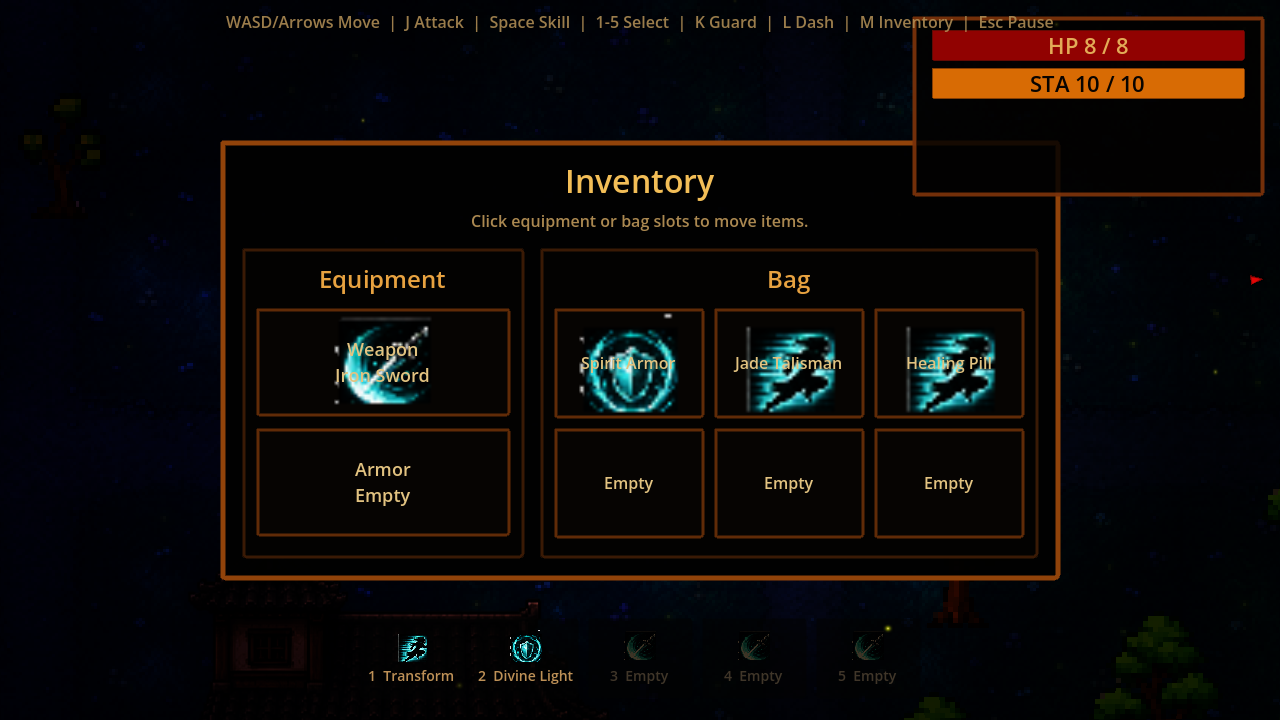
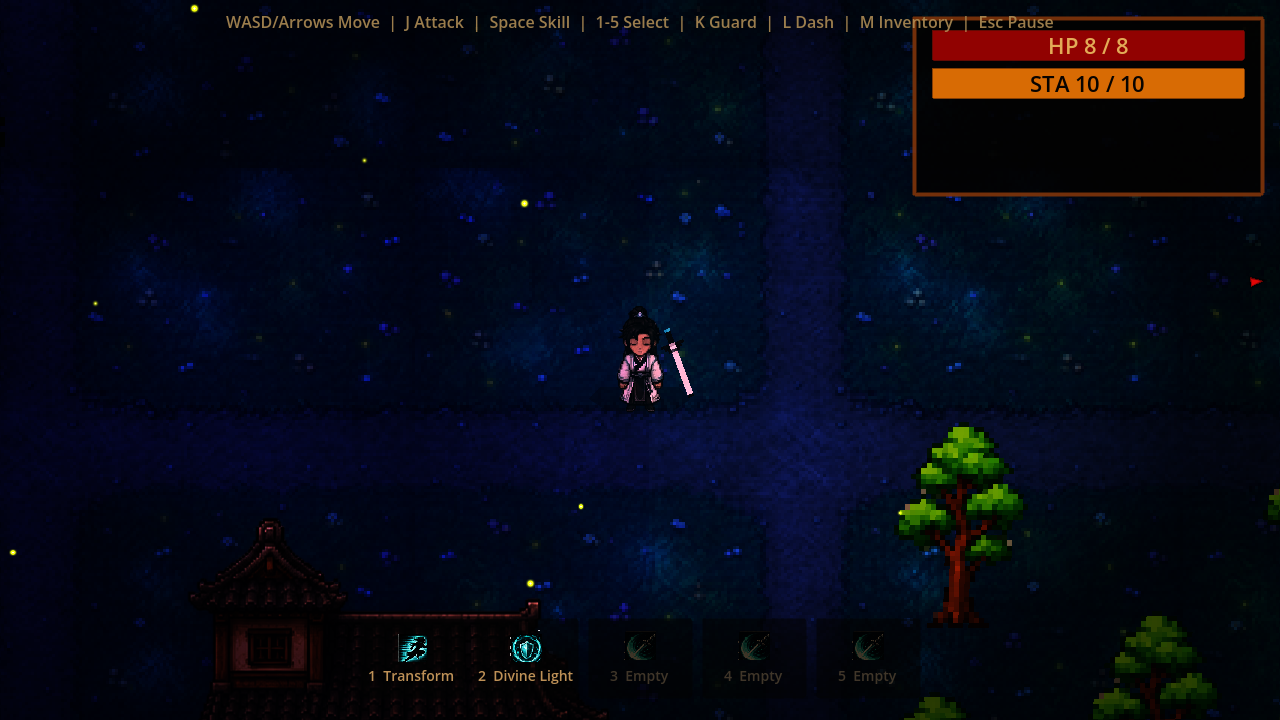
Showcase day night switching

diff --git a/README.md b/README.md
@@ -2,35 +2,40 @@
 
 **A tiny moonlit xianxia action RPG prototype made in Godot 4.**
 
-Wander through a haunted village under cold blue light, draw a blade against wandering spirits, dash past fire-lit beasts, and test the first pieces of a survival-action combat loop inspired by wuxia and xianxia fantasy.
+Wander through a village that shifts between bright grassland and cold moonlight, draw a blade against wandering spirits, dash past fire-lit beasts, and test the first pieces of a survival-action combat loop inspired by wuxia and xianxia fantasy.
 
-![Moonlit Jianghu world overview](docs/showcase/images/01-world-overview.png)
+![Moonlit Jianghu fire lion encounter](docs/showcase/images/02-day-fire-lion-encounter.png)
 
 ## Why This Exists
 
-Moonlit Jianghu is an unfinished but playable snapshot: a preserved prototype of a top-down pixel-art action RPG with night ambience, melee combat, hostile creatures, inventory UI, and a small handcrafted village map.
+Moonlit Jianghu is an unfinished but playable snapshot: a preserved prototype of a top-down pixel-art action RPG with day-night switching, melee combat, hostile creatures, inventory UI, and a small handcrafted village map.
 
 It is not a polished commercial release. It is a mood piece, a combat sketch, and a visual experiment that reached the point where it deserved to be shown.
 
 ## Highlights
 
-- **Moonlit xianxia village** with tiled night ground, lantern-lit buildings, trees, rocks, breakables, and drifting magical particles.
+- **Day-night village mood** that can be switched in-game with `P`, moving between bright green grassland and a colder moonlit atmosphere.
+- **Xianxia village scenery** with tiled ground, lantern-lit buildings, trees, rocks, breakables, and drifting magical particles.
 - **Snappy top-down combat** with movement, dash, melee attacks, guard timing, stamina pressure, hit flashes, knockback, and impact feedback.
 - **Enemy encounters** featuring skeletal attackers, zombies, fast enemies, and a blazing fire-lion variant.
 - **Skill bar and inventory overlay** with equipment slots, bag slots, and simple prototype RPG affordances.
 - **AI-assisted pixel-art pipeline** for cleaning, extracting, and aligning generated sprite sheets into Godot-ready transparent assets.
 
-![Fire lion encounter](docs/showcase/images/02-fire-lion-encounter.png)
+![Night fire lion encounter](docs/showcase/images/05-night-fire-lion-encounter.png)
 
 ## Screenshots
 
-| Village | Combat |
+| Day Village | Day Combat |
 | --- | --- |
-| ![Night village](docs/showcase/images/04-night-village.png) | ![Fire lion encounter](docs/showcase/images/02-fire-lion-encounter.png) |
+| ![Day village](docs/showcase/images/01-day-village.png) | ![Day fire lion encounter](docs/showcase/images/02-day-fire-lion-encounter.png) |
 
-| Inventory | Overview |
+| Night Village | Night Combat |
 | --- | --- |
-| ![Inventory overlay](docs/showcase/images/03-inventory-overlay.png) | ![World overview](docs/showcase/images/01-world-overview.png) |
+| ![Night village](docs/showcase/images/04-night-village.png) | ![Night fire lion encounter](docs/showcase/images/05-night-fire-lion-encounter.png) |
+
+| Inventory |
+| --- |
+| ![Inventory overlay](docs/showcase/images/03-inventory-overlay.png) |
 
 ## Play Notes
 
@@ -50,7 +55,7 @@ Unsigned builds may trigger operating-system security prompts.
 - Use selected skill: `Space`
 - Select skills: `1`-`5`
 - Inventory: `M`
-- Toggle night ambience: `P`
+- Toggle day/night: `P`
 - Reset scene: `R`
 
 ## Showcase Docs

diff --git a/docs/showcase/SHOWCASE_EN.md b/docs/showcase/SHOWCASE_EN.md
@@ -2,9 +2,9 @@
 
 An unfinished Godot 4 top-down action RPG prototype with a retro xianxia mood.
 
-This project is not a finished game. It is a playable snapshot of an experiment: movement, melee combat, enemy behavior, a small village map, night ambience, simple inventory UI, and a collection of AI-assisted pixel-art asset experiments.
+This project is not a finished game. It is a playable snapshot of an experiment: movement, melee combat, enemy behavior, a small village map, day-night switching, simple inventory UI, and a collection of AI-assisted pixel-art asset experiments.
 
-![World overview](images/01-world-overview.png)
+![Day fire lion encounter](images/02-day-fire-lion-encounter.png)
 
 ## Download Builds
 
@@ -22,10 +22,10 @@ The macOS build is unsigned, so macOS may ask players to right-click and choose 
 - Top-down player movement with dash, melee attacks, blocking, stamina, and combat feedback.
 - Enemy encounters including skeleton-style enemies, fast enemies, zombies, and a fire-lion variant.
 - A small curated village map with houses, trees, breakable objects, landmarks, and boundary walls.
-- Night ambience with darker ground art, lights, firefly-like particles, and mood effects.
+- Switchable day and night ambience with bright grassland, darker ground art, lights, firefly-like particles, and mood effects.
 - A lightweight inventory overlay with equipment and bag slots.
 
-![Fire lion encounter](images/02-fire-lion-encounter.png)
+![Day village](images/01-day-village.png)
 
 ## Controls
 
@@ -36,7 +36,7 @@ The macOS build is unsigned, so macOS may ask players to right-click and choose 
 - Use selected skill: `Space`
 - Select skills: `1`-`5`
 - Inventory: `M`
-- Toggle night ambience: `P`
+- Toggle day/night: `P`
 - Reset scene: `R`
 
 ![Inventory overlay](images/03-inventory-overlay.png)
@@ -48,6 +48,8 @@ This is a stopping point, not a production release. Some tests still describe ol
 The most honest way to view it is as a preserved prototype: a record of the game direction, the visual experiments, and the combat feel that made it far enough to be shared.
 
 ![Night village](images/04-night-village.png)
+
+![Night fire lion encounter](images/05-night-fire-lion-encounter.png)
 
 ## Building Locally
 

diff --git a/docs/showcase/SHOWCASE_ZH.md b/docs/showcase/SHOWCASE_ZH.md
@@ -2,9 +2,9 @@
 
 一个未完成的 Godot 4 俯视角动作 RPG 原型，方向是复古像素 + 修仙氛围。
 
-这不是一个完成品。它更像是一次实验的存档：移动、近战、敌人、一个小村庄地图、夜晚氛围、简单背包 UI，以及一批 AI 辅助像素素材的尝试。
+这不是一个完成品。它更像是一次实验的存档：移动、近战、敌人、一个小村庄地图、昼夜切换、简单背包 UI，以及一批 AI 辅助像素素材的尝试。
 
-![世界概览](images/01-world-overview.png)
+![白天火狮遭遇](images/02-day-fire-lion-encounter.png)
 
 ## 下载构建
 
@@ -22,10 +22,10 @@ macOS 包没有签名，第一次打开可能需要右键选择 Open。Windows e
 - 俯视角移动、冲刺、近战攻击、防御、体力和战斗反馈。
 - 敌人遭遇，包括骷髅风格敌人、快速敌人、僵尸，以及火狮变体。
 - 一个小型村庄地图，有房屋、树、可破坏物、地标和边界墙。
-- 夜晚氛围，包括夜色地面、光源、类似萤火的粒子和环境效果。
+- 可切换的白天和夜晚氛围，包括明亮草地、夜色地面、光源、类似萤火的粒子和环境效果。
 - 一个轻量背包界面，包含装备位和背包格。
 
-![火狮遭遇](images/02-fire-lion-encounter.png)
+![白天村庄](images/01-day-village.png)
 
 ## 操作
 
@@ -36,7 +36,7 @@ macOS 包没有签名，第一次打开可能需要右键选择 Open。Windows e
 - 使用当前技能：`Space`
 - 选择技能：`1`-`5`
 - 背包：`M`
-- 切换夜晚氛围：`P`
+- 切换白天/夜晚：`P`
 - 重置场景：`R`
 
 ![背包界面](images/03-inventory-overlay.png)
@@ -48,6 +48,8 @@ macOS 包没有签名，第一次打开可能需要右键选择 Open。Windows e
 比较诚实的看法是：这是一个被保存下来的原型。它记录了游戏方向、视觉尝试，以及已经能被分享出来的战斗手感。
 
 ![夜晚村庄](images/04-night-village.png)
+
+![夜晚火狮遭遇](images/05-night-fire-lion-encounter.png)
 
 ## 本地运行和导出
 
